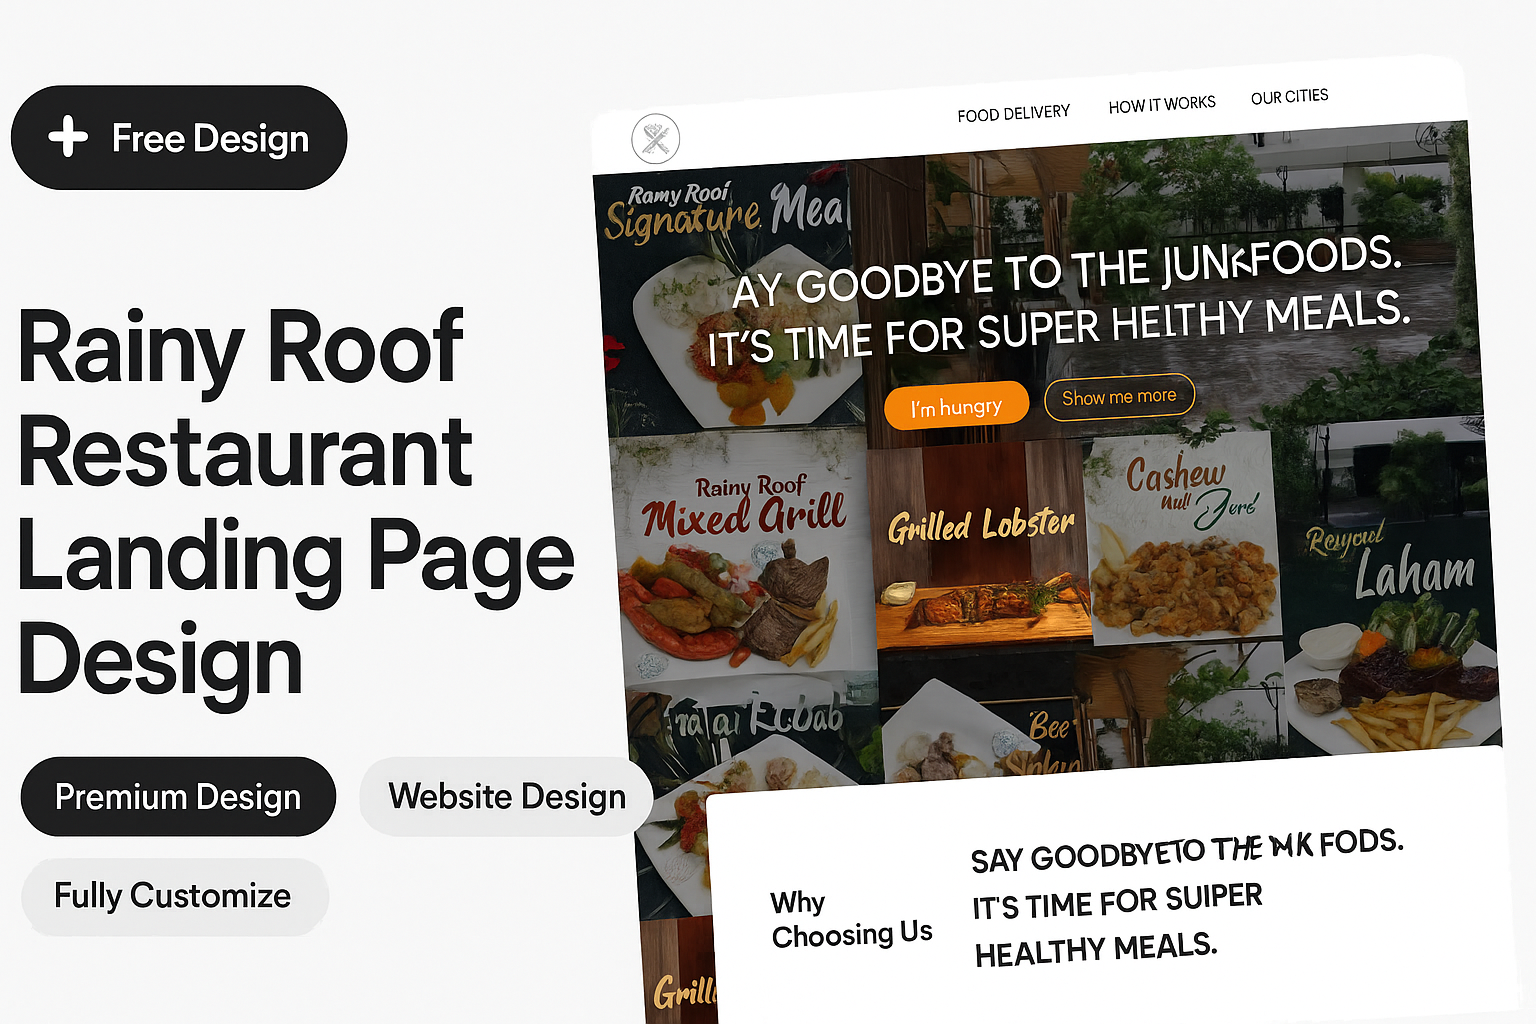
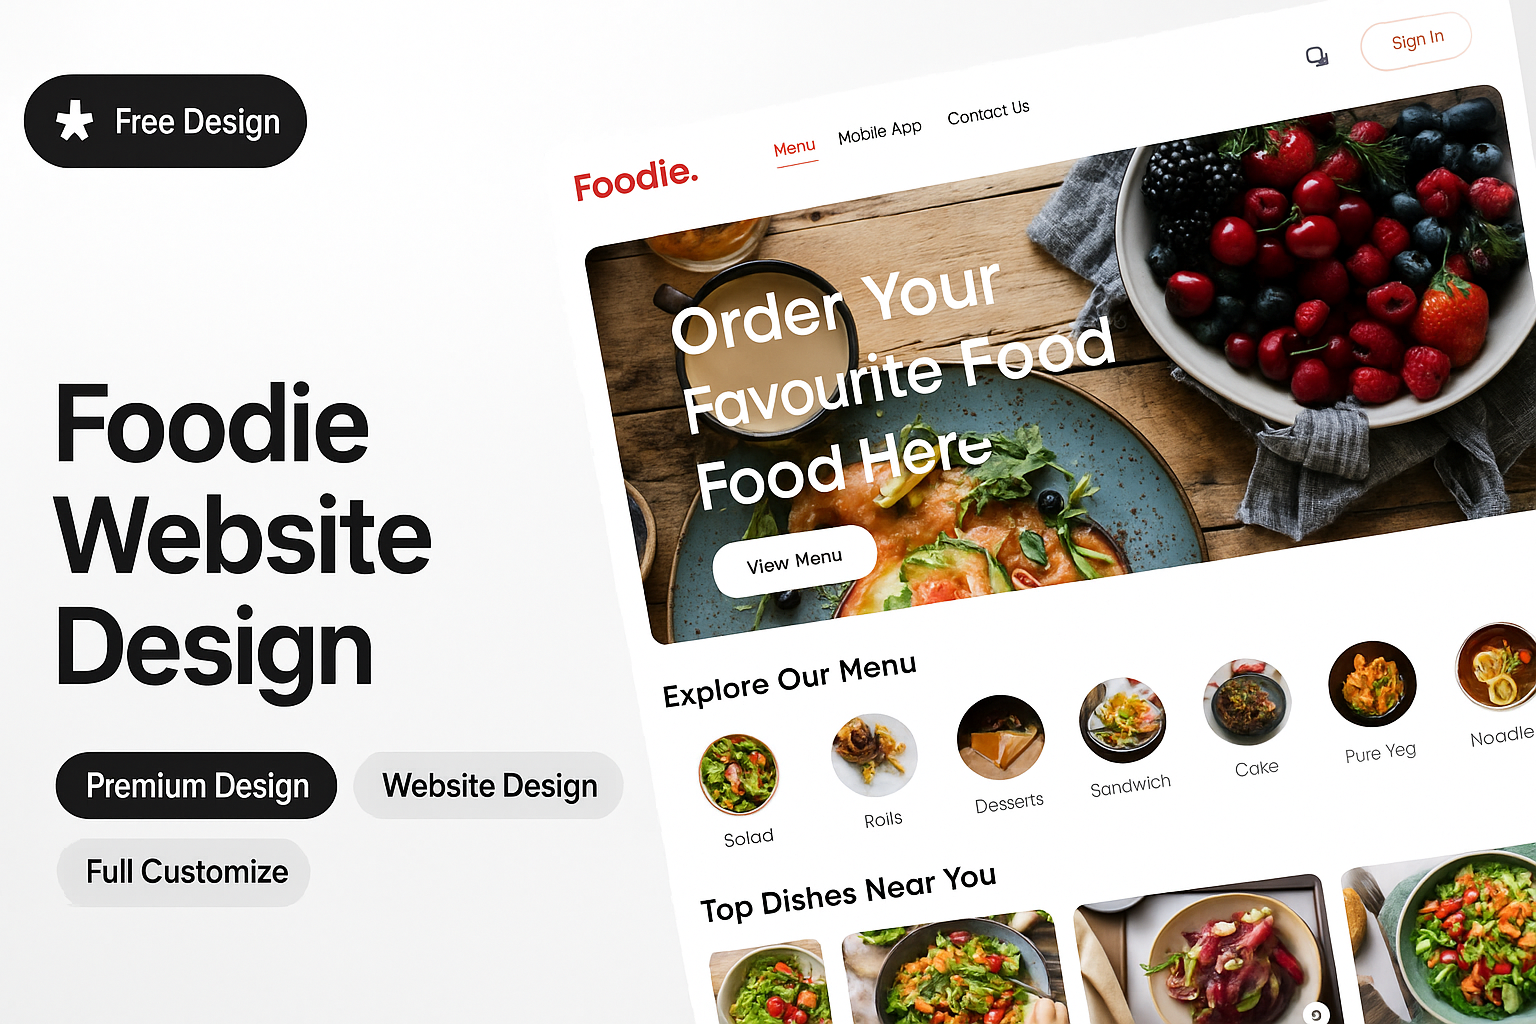
Project added

diff --git a/src/utils/projects.js b/src/utils/projects.js
@@ -16,13 +16,13 @@ const projects = [
   },
   {
     id: 2,
-    category: "Restaurant",
-    title: "RainyRoof Restaurant & Cafe",
+    category: "Food Delivery",
+    title: "Foodie - Food Delivery App",
     description:
       "Vivamus eleifend convallis ante, non pharetra libero molestie laoreet. Donec id imperdiet lacus.",
     image: project2,
-    github: "https://github.com/example/project1",
-    preview: "https://example.com/project1",
+    github: "https://github.com/alnoman30/Foodie-App-ReactJS",
+    preview: "https://alnoman-foodie.vercel.app/",
   },
   {
     id: 3,
